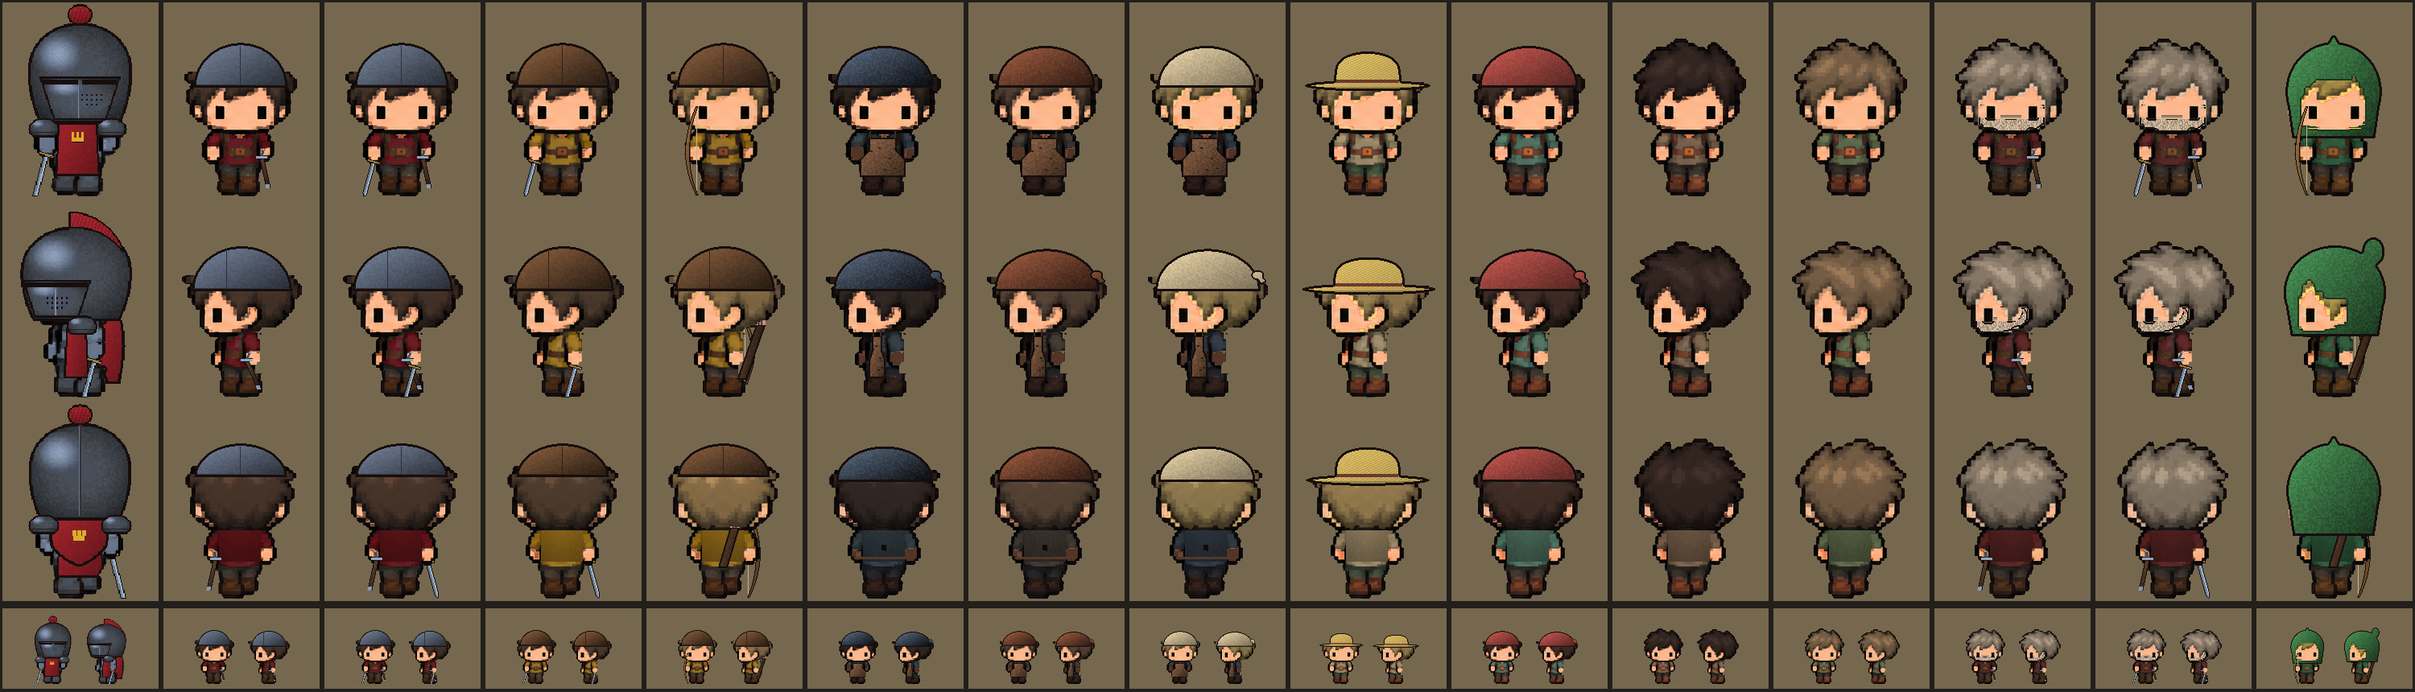
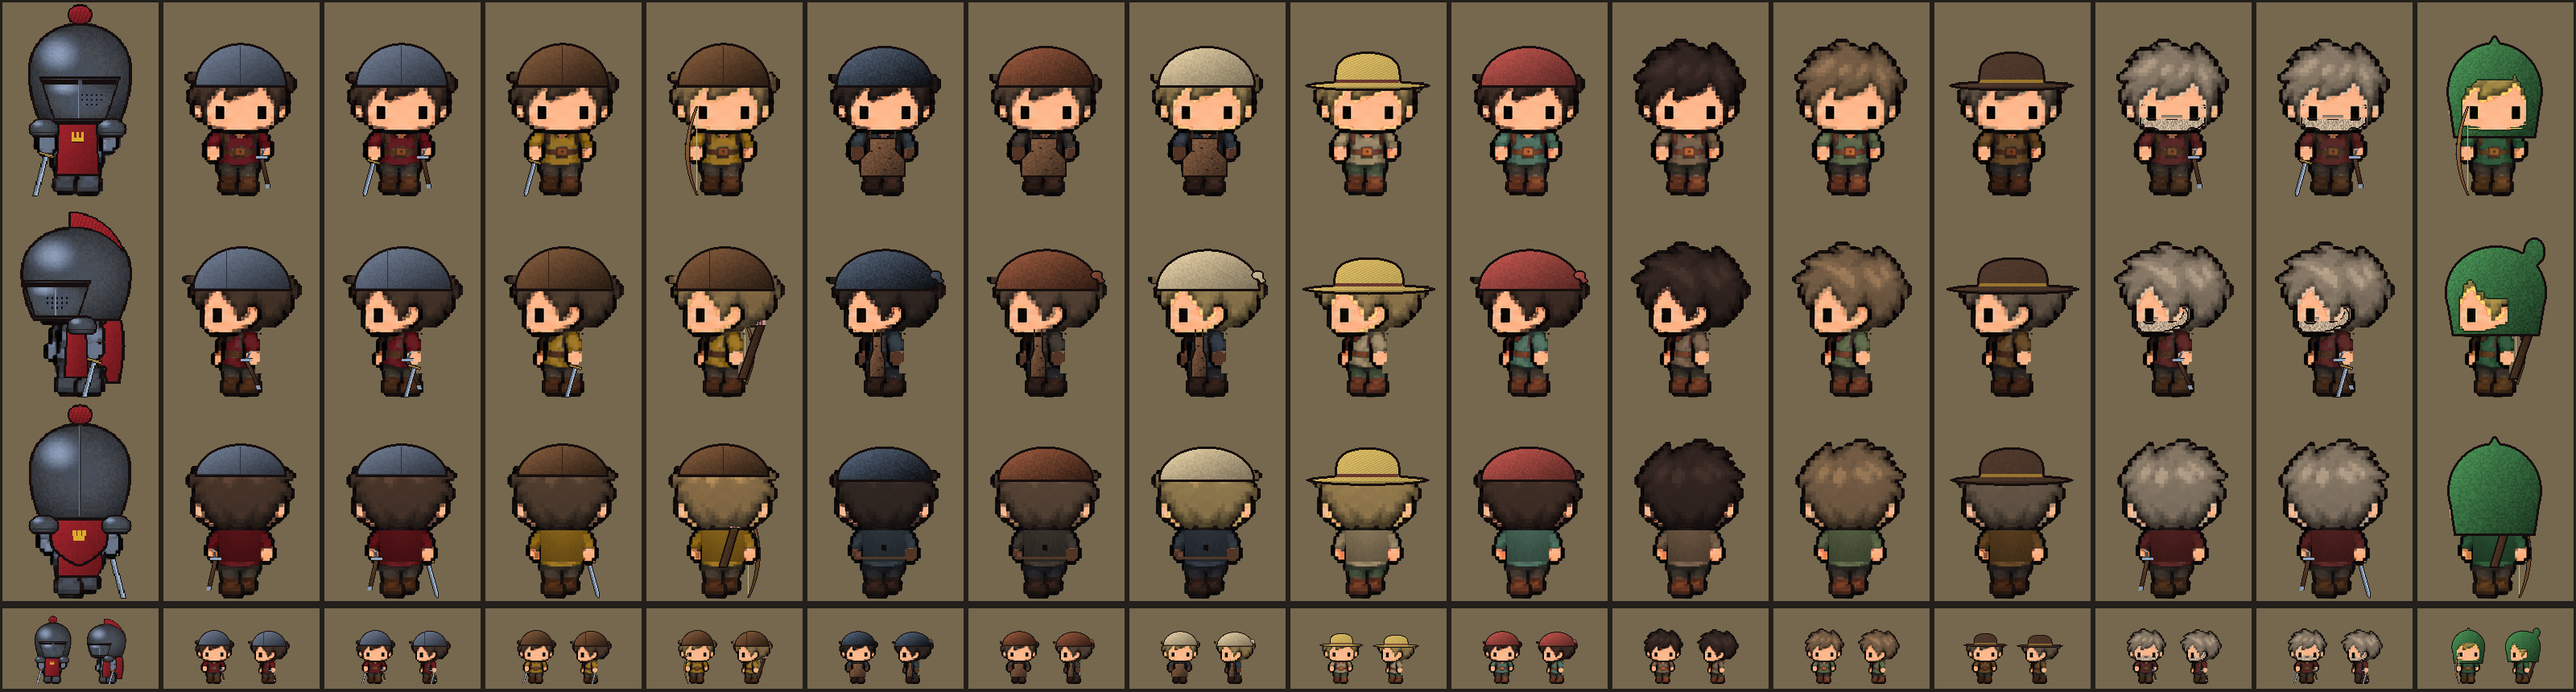
L10: Harry, the foreman, in a look of his own
Yannick asked for Harry to be told from the workers he watches: he is the
man who comes to stop Tom's side at the furnaces.

- foreman: the works' ochre darkened to a coat, no apron, greying hair,
  and the straw hat's piece made in felt ("weave": false, a brass band).
- Harry wears it; worker_a goes back to the shift's pool.
- test_the_named_ones_the_demo_needs_wear_their_own holds it.
- The letter, his task page, V3 and CLAUDE.md count fourteen looks and
  say the king's guards and Bram carry their swords.

Both worlds green: 773 tests each, 0 failed.

diff --git a/docs/POUR_SLOSINIO.md b/docs/POUR_SLOSINIO.md
@@ -537,19 +537,23 @@ voyageur, sans le redessiner** : la couleur des cheveux et des vêtements change
 forme de tes ombres est gardée. Par-dessus, on dessine ce que tu n'as pas fait : un casque,
 un bonnet, une capuche, un chapeau de paille, un tablier, une barbe, une épée, un arc.
 
-Il y a treize tenues :
+Il y a quatorze tenues :
 
 - **les gardes du roi** : armure noircie, casque fermé avec un plumet rouge, tunique
-  rouge à couronne, bouclier dans le dos, 20 % plus grands que les autres. Ils doivent
-  avoir l'air impossibles à battre ;
+  rouge à couronne, bouclier dans le dos, une épée à la main, 20 % plus grands que les
+  autres. Ils doivent avoir l'air impossibles à battre ;
 - **les soldats du roi** (le garde du pont, les sentinelles) : rouge du roi, mais en
-  tissu, avec une calotte de fer et une épée à la ceinture ;
+  tissu, avec une calotte de fer et une épée à la ceinture, qu'ils sortent pour se
+  battre ;
 - **les gardes et les archers de l'usine** : ocre, la couleur de l'usine, un bonnet de
   cuir, une épée ou un arc à la main ;
 - **trois ouvriers** : vêtements sombres, tablier de cuir, gants, foulard ;
+- **Harry, le contremaître** : un manteau de la couleur de l'usine, plus sombre, sans
+  tablier, et un chapeau de feutre à bord ;
 - **quatre villageois** : des vêtements de tous les jours, sans sac à dos ; l'un porte un
   chapeau de paille, un autre un foulard rouge, les deux autres sont tête nue ;
-- **Bram** : cheveux gris, barbe courte, épée à la ceinture ;
+- **Bram** : cheveux gris, barbe courte, épée à la ceinture, et à la main quand il se
+  bat ;
 - **Wren** : capuche verte, un arc et un carquois. De face, elle tient l'arc à la main ;
   de profil, il est dans son dos, pour ne pas passer devant son visage.
 

diff --git a/docs/TACHES_POUR_SLOSINIO.md b/docs/TACHES_POUR_SLOSINIO.md
@@ -57,7 +57,7 @@ le tien, un test le voit, et on choisit ensemble lequel garder.
 | **Un animal** | Le loup : onze blocs, peints avec ta roche et ton sombre | Un loup, qui marche et qui mord |
 | **Une tombe** | Des stèles en pierre et des planches en bois, faites avec tes matières | Un petit kit de cimetière : deux ou trois pierres tombales, une croix de bois, un tertre de terre, un tertre herbeux, un muret bas |
 | **Un feu de camp** | Composé de tes pièces (pierres, bûches, braises, fumée) ; seules les flammes sont à nous | Un feu de camp à toi, si tu veux |
-| **Les personnages** | Treize tenues posées sur ton voyageur : couleurs changées (tes ombres gardées), et par-dessus un casque, un bonnet, une capuche, un chapeau, un tablier, une barbe, une épée ou un arc. Le joueur reste ton voyageur | Si tu veux : les vrais personnages, au repos et en marche dans les quatre directions, et pour ceux qui se battent les images de combat (préparation, coup, recul). D'abord un garde du roi, un garde de l'usine, un ouvrier, un villageois, Bram et Wren |
+| **Les personnages** | Quatorze tenues posées sur ton voyageur : couleurs changées (la forme de tes ombres gardée), et par-dessus un casque, un bonnet, une capuche, un chapeau, un tablier, une barbe, une épée ou un arc. Le joueur reste ton voyageur | Si tu veux : les vrais personnages, au repos et en marche dans les quatre directions, et pour ceux qui se battent les images de combat (préparation, coup, recul). D'abord un garde du roi, un garde de l'usine, un ouvrier, un villageois, Bram et Wren |
 | **Le « ! » au-dessus de Bram** | Une barre et un point couleur braise, dessinés en code | Facultatif : un « ! » peint à ta main |
 
 ---

diff --git a/CLAUDE.md b/CLAUDE.md
@@ -172,8 +172,8 @@ below with the fourth.
 4. **The cast's looks** (2026-09-30, group L of `docs/DEMO_TASKS.md`). Every man was his
    one traveller, six of him in one fight. `tools/draw_cast_looks.gd` dresses him as each
    kind of person the demo shows — the king's guards in blackened plate a fifth taller,
-   the watch, the works' guards and archers, the ironworks' workers, the villagers, Bram
-   and Wren — into `view3d/cast/<look>.png`, one sheet per look in his sheet's layout.
+   the watch, the works' guards and archers, the ironworks' workers and their foreman,
+   the villagers, Bram and Wren — into `view3d/cast/<look>.png`, one sheet per look in his sheet's layout.
    **Recoloured, not repainted**: each region of him moves to another hue with the
    values of his brush scaled, not replaced, so the shape of his shading stays; what he never drew (a helm, a cap, a hood, a hat, an apron,
    a beard, a sword, a bow) is painted over him in his manner and measured on each frame.

diff --git a/docs/V3.md b/docs/V3.md
@@ -163,8 +163,9 @@ recoloured with his shading kept, and a helm, a cap, a hood, a hat, an apron, a 
 sword or a bow painted over him in his manner — into one sheet per look
 (`view3d/cast/`), and the window gives every figure its type's: **the king's guards** in
 blackened plate a fifth taller than anybody, the **watch** in the king's red cloth,
-**the works' guards and archers** in ochre, **three workers**, **four villagers**, **Bram**
-grey-bearded with his sword at the belt, **Wren** hooded with a bow. **The player stays
+**the works' guards and archers** in ochre, **three workers** and **Harry** their foreman
+in a felt hat, **four villagers**, **Bram** grey-bearded with his sword at the belt and in
+his hand when he fights, **Wren** hooded with a bow; the king's guards carry a sword. **The player stays
 exactly as his brother drew him.** `docs/frames/cast/` has the board and the looks in play.
 
 ---

diff --git a/docs/DEMO_TASKS.md b/docs/DEMO_TASKS.md
@@ -2461,6 +2461,12 @@ Est. 1 h. A look of his own, `foreman`: the works' colour darker, a coat and no 
 felt hat with a brim — so the man who comes to stop Tom's side is told from the workers he
 watches. **Check:** a frame of him at the furnaces.
 
+> **Built 2026-09-30.** `foreman`: the works' ochre darkened to a coat, no apron, greying
+> hair, and the straw hat's piece made in felt (`"weave": false`, a brass band). Harry
+> wears it; `worker_a` is back in the shift's pool. Framed at the furnaces, talking. There
+> are now fourteen looks and two fight sheets, sixteen sheets in all — about 190 MB of
+> video memory once all are loaded, which the window does while the world is built.
+
 ### L11 · His brother's task page, brought up to date
 
 Est. 30 min. The page Yannick sent him (`docs/TACHES_POUR_SLOSINIO.md`, published) says
